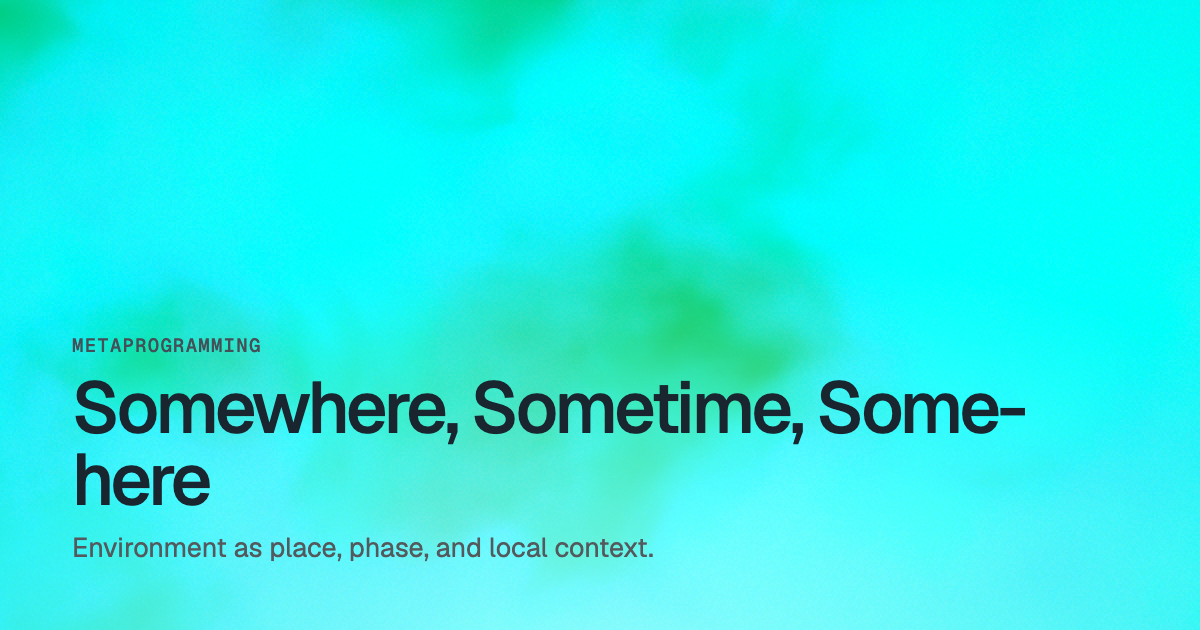
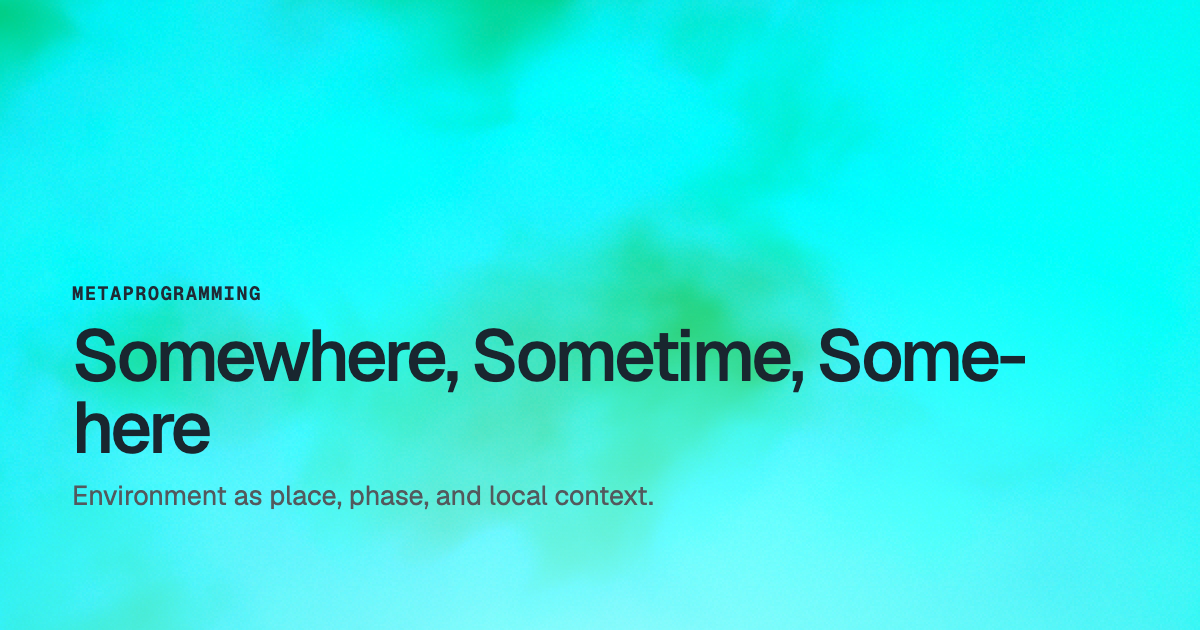
Rename `@Statement` to `@statement` and rework Assignment
Assignment is now generic over its written value, pairing an
`Identifier` target with a replacement `Value` instead of wrapping an
expression around both roles.

Also darken and embolden the post card byline text and give social
cards more bottom padding, regenerating the affected OG images.

Changed region(s): [[0.0617, 0.5127, 0.8633, 0.8143], [0.0617, 0.8444, 0.555, 0.9048], [0.0617, 0.4524, 0.2158, 0.4825]]

diff --git a/Website/app/globals.css b/Website/app/globals.css
@@ -570,11 +570,11 @@ range-spline-nav a:focus-visible {
 }
 
 .postCopy small {
-  color: oklch(0.42 0.02 240);
+  color: oklch(0.28 0.025 250);
   font-family: var(--font-geist-mono), monospace;
   font-size: 9px;
   font-variant-ligatures: none;
-  font-weight: 520;
+  font-weight: 650;
   letter-spacing: 0.06em;
   text-transform: uppercase;
 }

diff --git a/Website/src/lib/components/PostCard.svelte b/Website/src/lib/components/PostCard.svelte
@@ -47,7 +47,7 @@
   }
 
   .socialPost .postCopy {
-    padding: 180px 72px 64px;
+    padding: 180px 72px 116px;
     gap: 14px;
     background: radial-gradient(
       ellipse 94% 128% at 50% 118%,

diff --git a/TODO.md b/TODO.md
@@ -679,6 +679,11 @@ owns the actionable checkboxes for the active and deliberately deferred work.
         - [x] Remove redundant authored `replace(with:)` members from syntax
           value declarations; replacement is supplied by the macro
           environment rather than declared independently by each shape.
+        - [x] Model generic `Assignment<Value>` as a name-directed write with
+          an `Identifier` and replacement `Value`, rather than an expression
+          container around either role.
+        - [x] Normalize the statement capability macro and every Core
+          application to lowercase `@statement`.
       - [x] Remove the separate `Generic`, `TypeGeneric`, and `ValueGeneric`
         syntax declarations; construct, enum, function, and macro generic
         clauses now collect ordinary `Parameter.Declaration` bindings.
